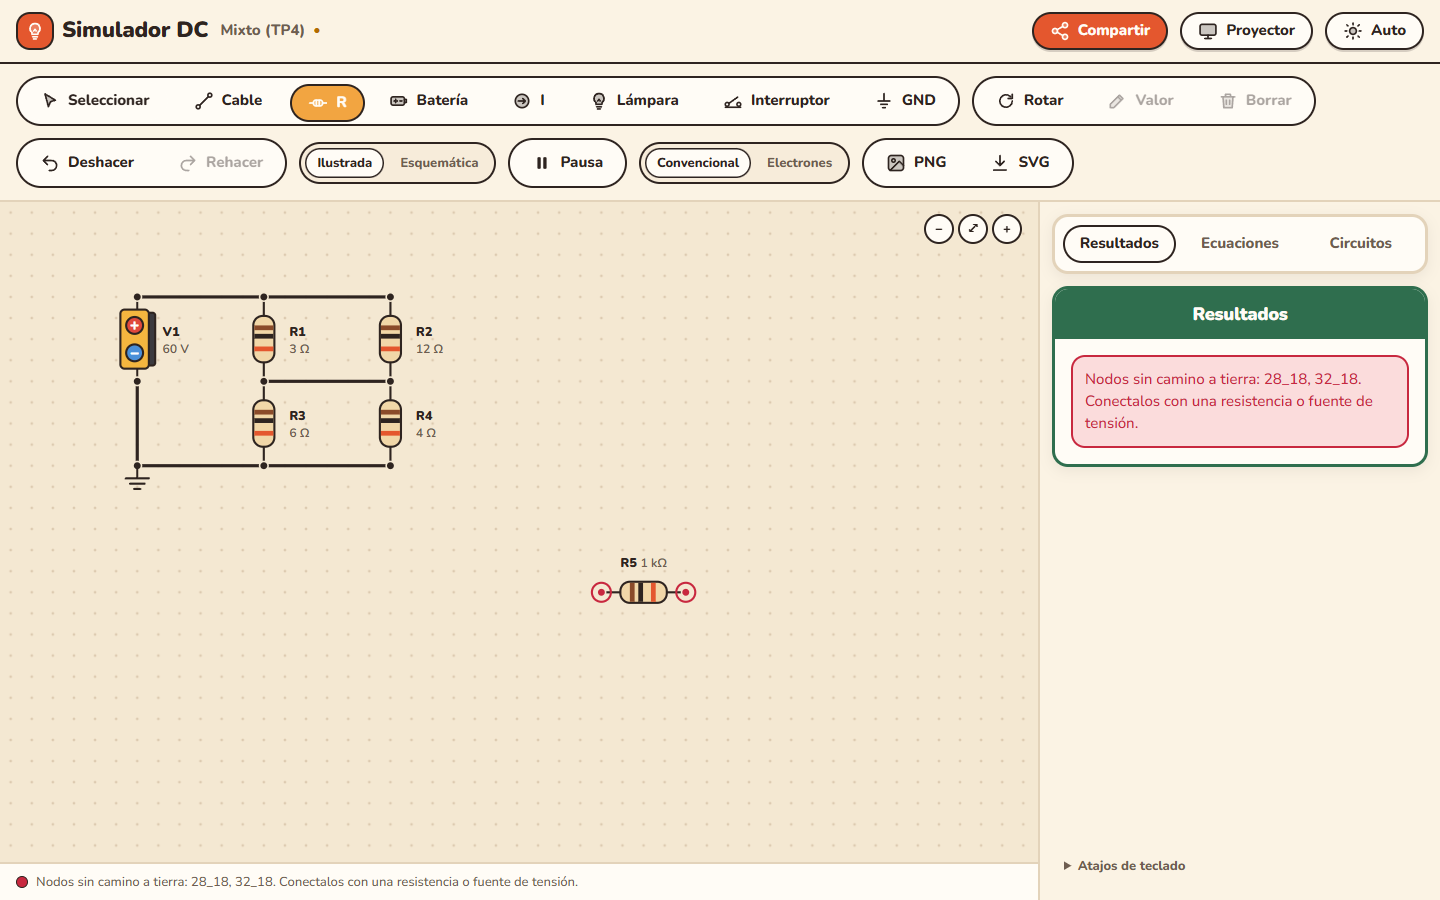
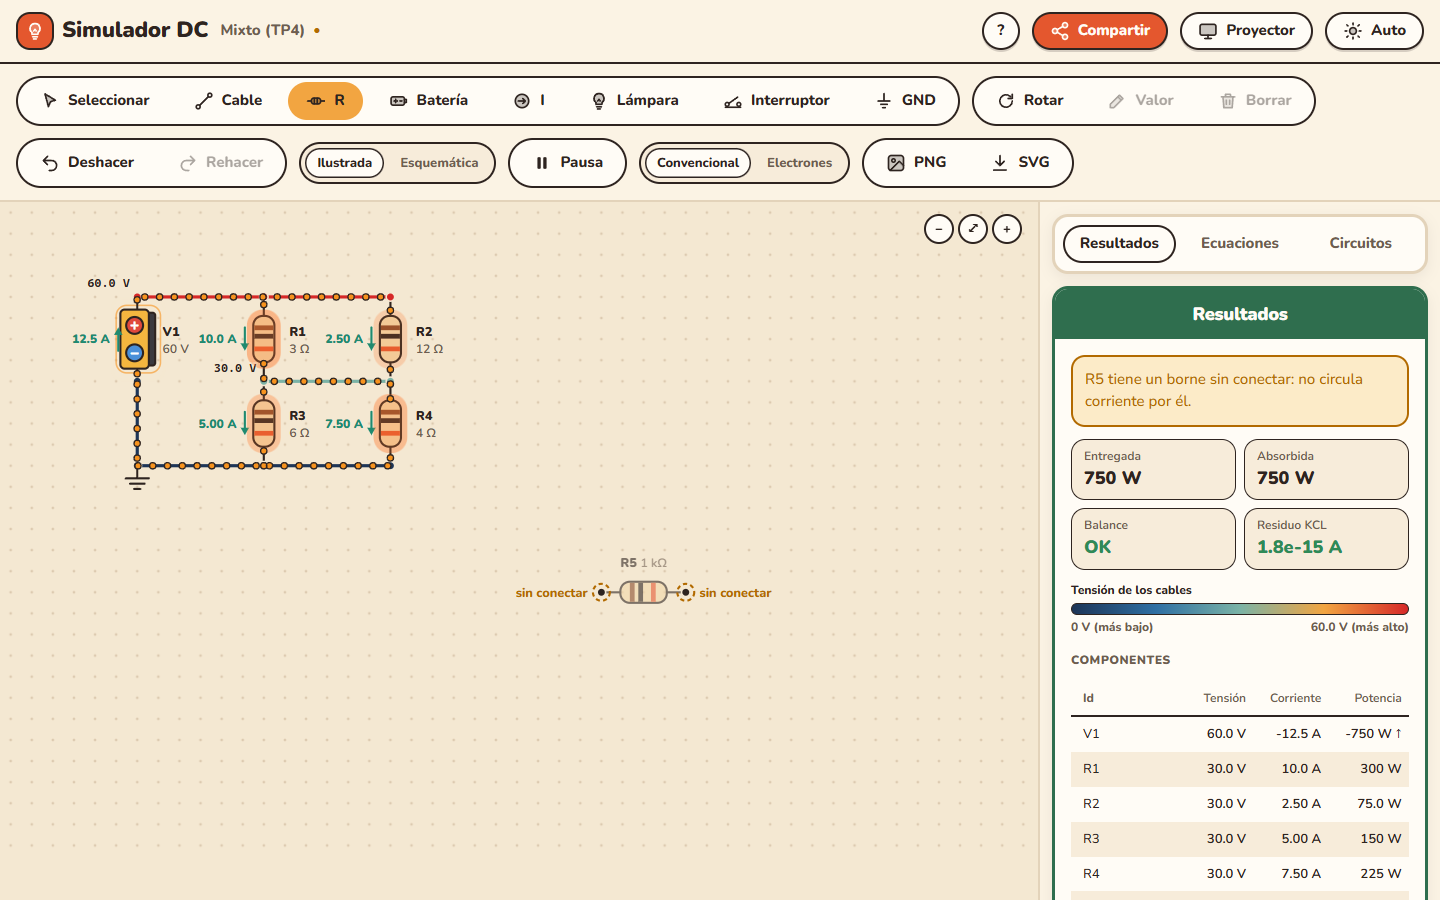
Documenta la etapa de interacción

diff --git a/CLAUDE.md b/CLAUDE.md
@@ -19,8 +19,10 @@ Autora: Victoria Sanchez Bujaldon. Idioma del código, comentarios y documentaci
 ```text
 frontend/public/          lo que se publica (HTML + CSS + JS vanilla con módulos ES, sin build)
   js/lib/                 lógica sin DOM, con tests: mna, modelo, netlist, historial, valores,
-                          ejemplos, almacen (localStorage + .json), compartir (hash), ecuaciones
+                          ejemplos, almacen (localStorage + .json), compartir (hash), ecuaciones,
+                          seleccion (grupo: mover, rotar, borrar, copiar, pegar), ficha, tutorial
   js/app.js, editor.js, paneles.js, exportar.js, tema.js     interfaz (css/editor.css)
+  js/tutorial.js          pestaña del tutorial (progreso en localStorage; botón "?" del encabezado)
   sw.js                   service worker: caché con versión, red primero (4 s) y caché sin conexión
   js/version.js, js/actualizacion.js   versión de la página y aviso "Hay una versión nueva — Actualizar"
   css/tokens.css          sistema de diseño (único lugar con valores literales): claro, oscuro, proyector
@@ -66,6 +68,22 @@ coma decimal. Si se cambia el motor, correr `tests/comparacion/comparar.mjs` con
 `microservicios` (última corrida: 500 circuitos, 0 discrepancias de error, 5,5e-10 de diferencia
 relativa a la escala).
 
+## Interacción (no revertir)
+
+- **Bornes sueltos:** `analizarConexiones` (netlist.js) saca de la simulación, en cascada, los
+  componentes con un borne al aire (punto con una sola conexión; la tierra cuenta como una). Se
+  simula el resto; los sacados vuelven con corriente 0 y `unconnected: true`, y el editor marca
+  "sin conectar" solo los bornes que estaban al aire. Un lazo cerrado sin tierra sigue siendo
+  `floating_nodes` (en rojo). Ecuaciones usa el mismo estado activo.
+- **Insertar en un cable:** al colocar una pieza, o al soltar una sola arrastrada, con el centro
+  sobre un cable, `insertarEnCable` la alinea y corta el cable en sus bornes.
+- **Selección:** `ctl.seleccion = {ids, tierra}` (lib/seleccion.js); operaciones todo o nada.
+- **Tutorial:** no se adelanta solo sobre un circuito ya armado: empieza a contar desde el lienzo
+  vacío o desde que se saltea el primer paso.
+- **Lámpara en su potencia nominal:** no se quema (tolerancia relativa 1e-9 en `mna.js`).
+- **Barra:** el botón activo no usa transform y dentro de `.barra__grupo` no tiene borde propio
+  (lo verifica `tests/e2e/estados.mjs` en claro, oscuro y proyector).
+
 ## Interfaz: bugs de Simulador-2.0 que no deben volver
 
 Rehacer con dos pilas que guardan el estado actual; el historial incluye la tierra; el símbolo GND
@@ -99,12 +117,14 @@ render reemplaza los elementos del SVG.
 ## Comandos
 
 ```bash
-cd frontend && node --test                  # 124 tests
+cd frontend && node --test                  # 151 tests
 node tests/e2e/servir.mjs                   # http://localhost:8000/Simulador-2.0/
-cd tests/e2e && npm install && node verificar.mjs capturas   # 31 comprobaciones en Chrome
+cd tests/e2e && npm install && node verificar.mjs capturas   # 33 comprobaciones en Chrome
 node tests/e2e/actualizacion.mjs            # aviso de versión nueva (publicar mientras espera)
 node tests/e2e/galeria.mjs capturas         # capturas de la galería y cuadros/s con 50 componentes
 node tests/e2e/editor.mjs capturas          # editor: lámpara, interruptor, vista, arrastre y cuadros/s
+node tests/e2e/interaccion.mjs capturas     # insertar en cable, selección múltiple, copiar/pegar, ficha, tutorial
+node tests/e2e/estados.mjs capturas         # estados de la barra en claro, oscuro y proyector
 ```
 
 ## Cómo trabajar

diff --git a/tests/e2e/README.md b/tests/e2e/README.md
@@ -1,12 +1,12 @@
 # Pruebas de la página en el navegador
 
 `verificar.mjs` maneja un Chrome real (headless) y recorre la página como lo haría un usuario
-(31 comprobaciones):
+(33 comprobaciones):
 
-- los seis ejemplos: el TP4 da 30 V y la fuente entrega 12,5 A, el Wheatstone equilibrado no tiene
+- los trece ejemplos simulan; el TP4 da 30 V y la fuente entrega 12,5 A, el Wheatstone equilibrado no tiene
   corriente en el galvanómetro y las dos mallas dan 7,5 V;
 - el panel de ecuaciones (KCL con valores, matriz MNA y solución);
-- un nodo suelto se marca en rojo con el mensaje del motor;
+- una pieza suelta se marca "sin conectar" sin frenar el resto, y un lazo sin tierra se marca en rojo con el mensaje del motor;
 - deshacer y rehacer (con la tierra) e ids que no se repiten;
 - edición de valores con validación;
 - **Compartir:** el link abierto en otro navegador reproduce el circuito exacto (componentes,
@@ -45,6 +45,15 @@ interruptor y lámpara, abre y cierra el interruptor con un clic, quema la lámp
 potencia nominal, alterna la vista ilustrada/esquemática y el sentido de la corriente, arrastra
 una pieza y mide cuadros por segundo con 50 componentes, animando y arrastrando, también con la
 CPU 4× más lenta.
+
+`interaccion.mjs` prueba lo de la etapa de interacción: colocar o arrastrar una pieza sobre un
+cable la inserta en serie; selección con rectángulo y con Ctrl/Shift + clic, mover, rotar y borrar
+en grupo; Ctrl+C, Ctrl+V y Ctrl+D; la ficha de una lámpara que casi no brilla y el tutorial
+completo hecho con el mouse (saltear, cerrar y reabrir con "?").
+
+`estados.mjs` revisa la barra en claro, oscuro y proyector: el botón activo no se corre, queda
+centrado en su grupo, sin doble borde (también "Reanudar"), y el foco con teclado se ve sin
+salirse del grupo. Guarda capturas de cada estado.
 
 `galeria.mjs` saca capturas de `galeria.html` (claro, oscuro, proyector y celular), comprueba que
 los canvas de animación queden sobre su SVG, que las animaciones se pausen y respeten
